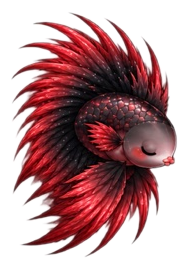
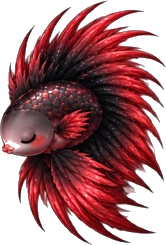
Crown Tail frames re-extracted from original art, no back poses

diff --git a/public/js/data.js b/public/js/data.js
@@ -67,7 +67,7 @@ const DATA = {
 
 /** Frame roles: 0 idle, 1-4 swim, 5 eat (only while eating), 6 sleep, 7 rear/turn */
 // Bump SPRITE_V whenever shipped art changes so phones don't keep stale cached PNGs.
-const SPRITE_V = 14;
+const SPRITE_V = 15;
 function spriteURL(speciesId, frame) {
   const s = DATA.SPECIES[speciesId];
   if (!s) return "";
